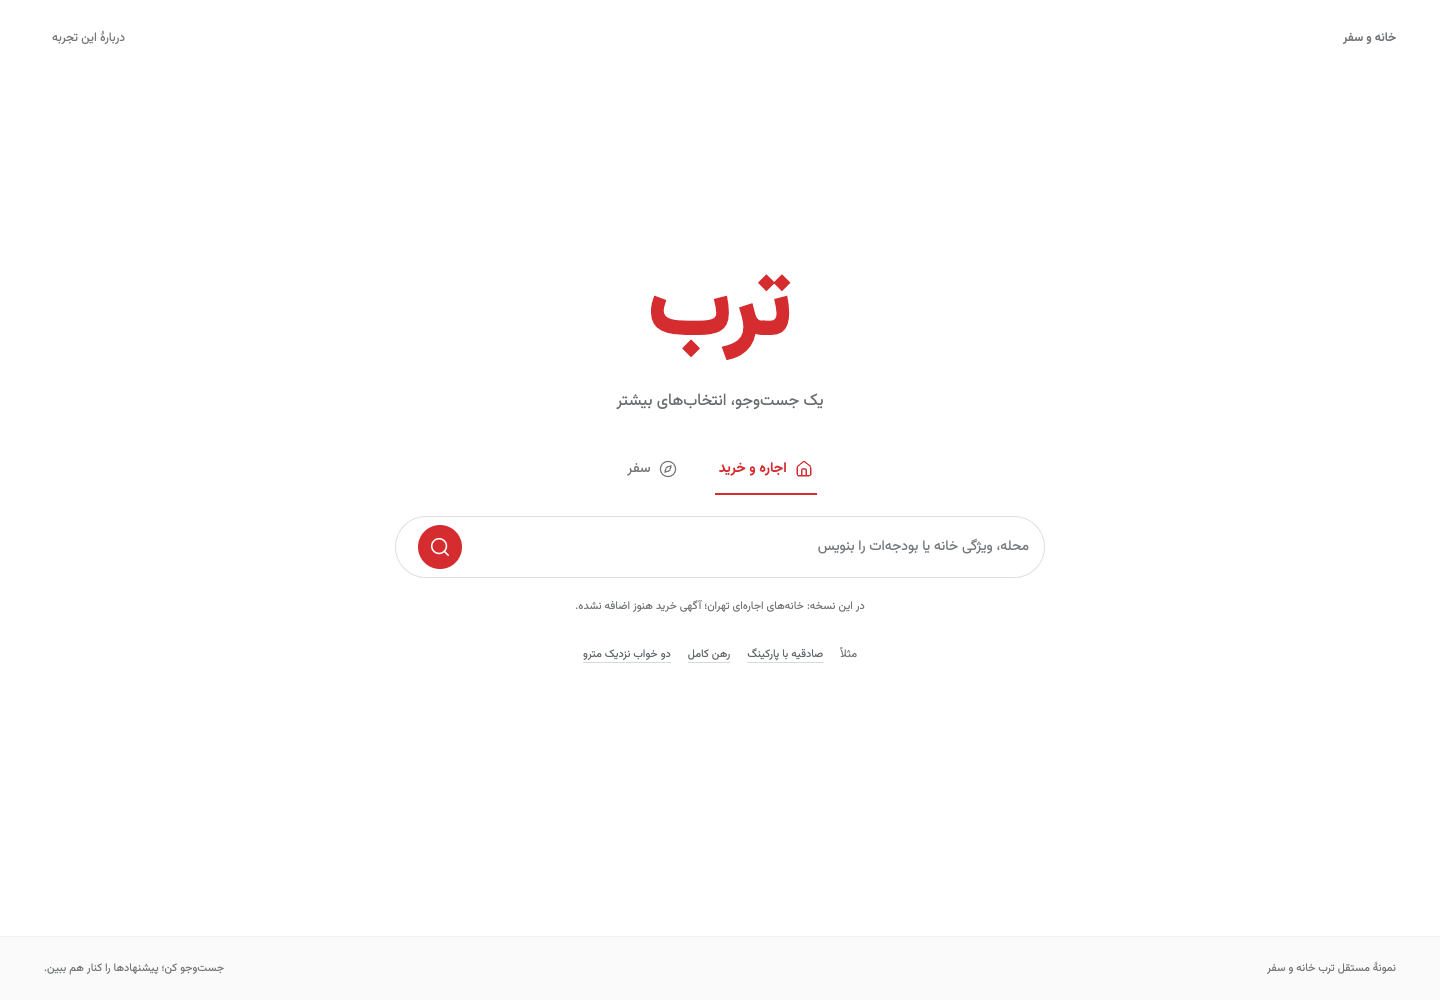
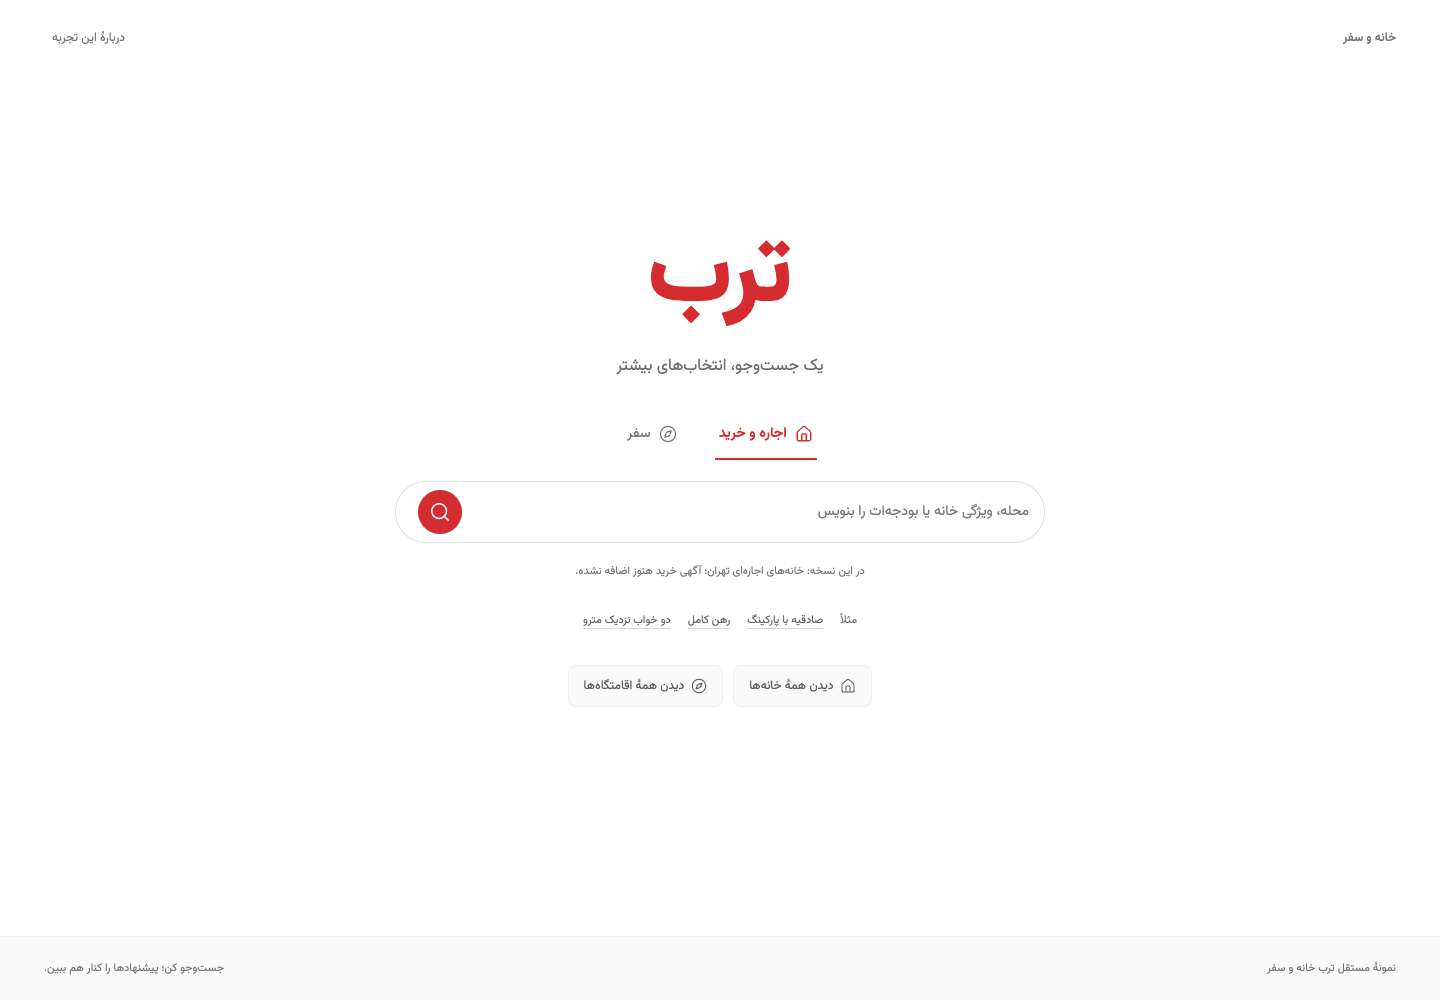
Add direct housing and travel entry buttons to landing page

diff --git a/src/landing/landing.css b/src/landing/landing.css
@@ -165,6 +165,32 @@
   color: #747779;
   font-size: 11px;
 }
+.landing-browse {
+  display: flex;
+  justify-content: center;
+  flex-wrap: wrap;
+  gap: 10px;
+  margin-top: 27px;
+}
+.landing-browse a {
+  display: inline-flex;
+  align-items: center;
+  justify-content: center;
+  gap: 7px;
+  min-height: 42px;
+  padding: 9px 15px;
+  border: 1px solid #eceeef;
+  border-radius: 8px;
+  background: #fafafa;
+  color: #565e61;
+  text-decoration: none;
+  font-size: 12px;
+}
+.landing-browse a:hover {
+  color: var(--red);
+  border-color: #e7c9c9;
+  background: #fff;
+}
 .landing-about {
   padding: 24px;
   font-size: 13px;
@@ -237,6 +263,14 @@
     justify-content: center;
     text-align: center;
     font-size: 10px;
+  }
+  .landing-browse {
+    gap: 8px;
+    margin-top: 22px;
+  }
+  .landing-browse a {
+    font-size: 11px;
+    padding-inline: 11px;
   }
   .landing-footer > span:last-child {
     display: none;

diff --git a/src/landing/Landing.jsx b/src/landing/Landing.jsx
@@ -163,6 +163,16 @@ export default function Landing() {
               ))}
             </div>
           </div>
+          <nav className="landing-browse" aria-label="ورود مستقیم بدون جستوجو">
+            <a href="/khaneh">
+              <Icon name={House} size={16} />
+              دیدن همهٔ خانهها
+            </a>
+            <a href="/safar">
+              <Icon name={Compass} size={16} />
+              دیدن همهٔ اقامتگاهها
+            </a>
+          </nav>
         </section>
       </main>
       <footer className="landing-footer">
